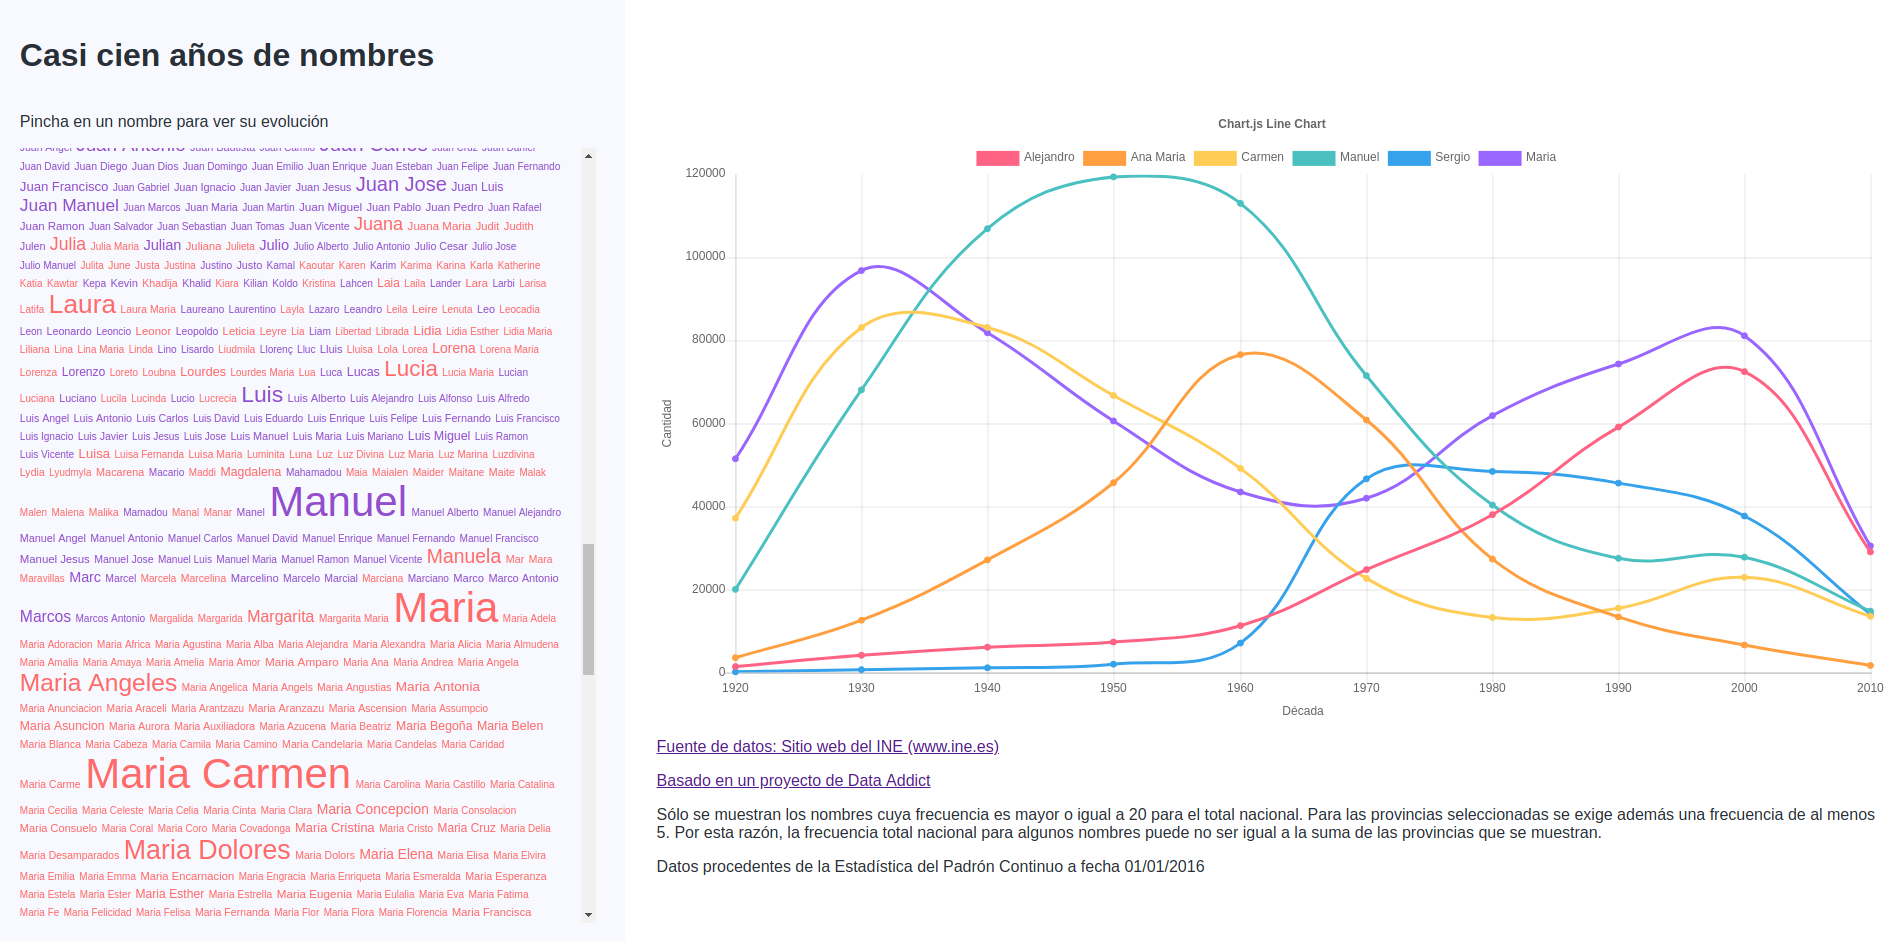
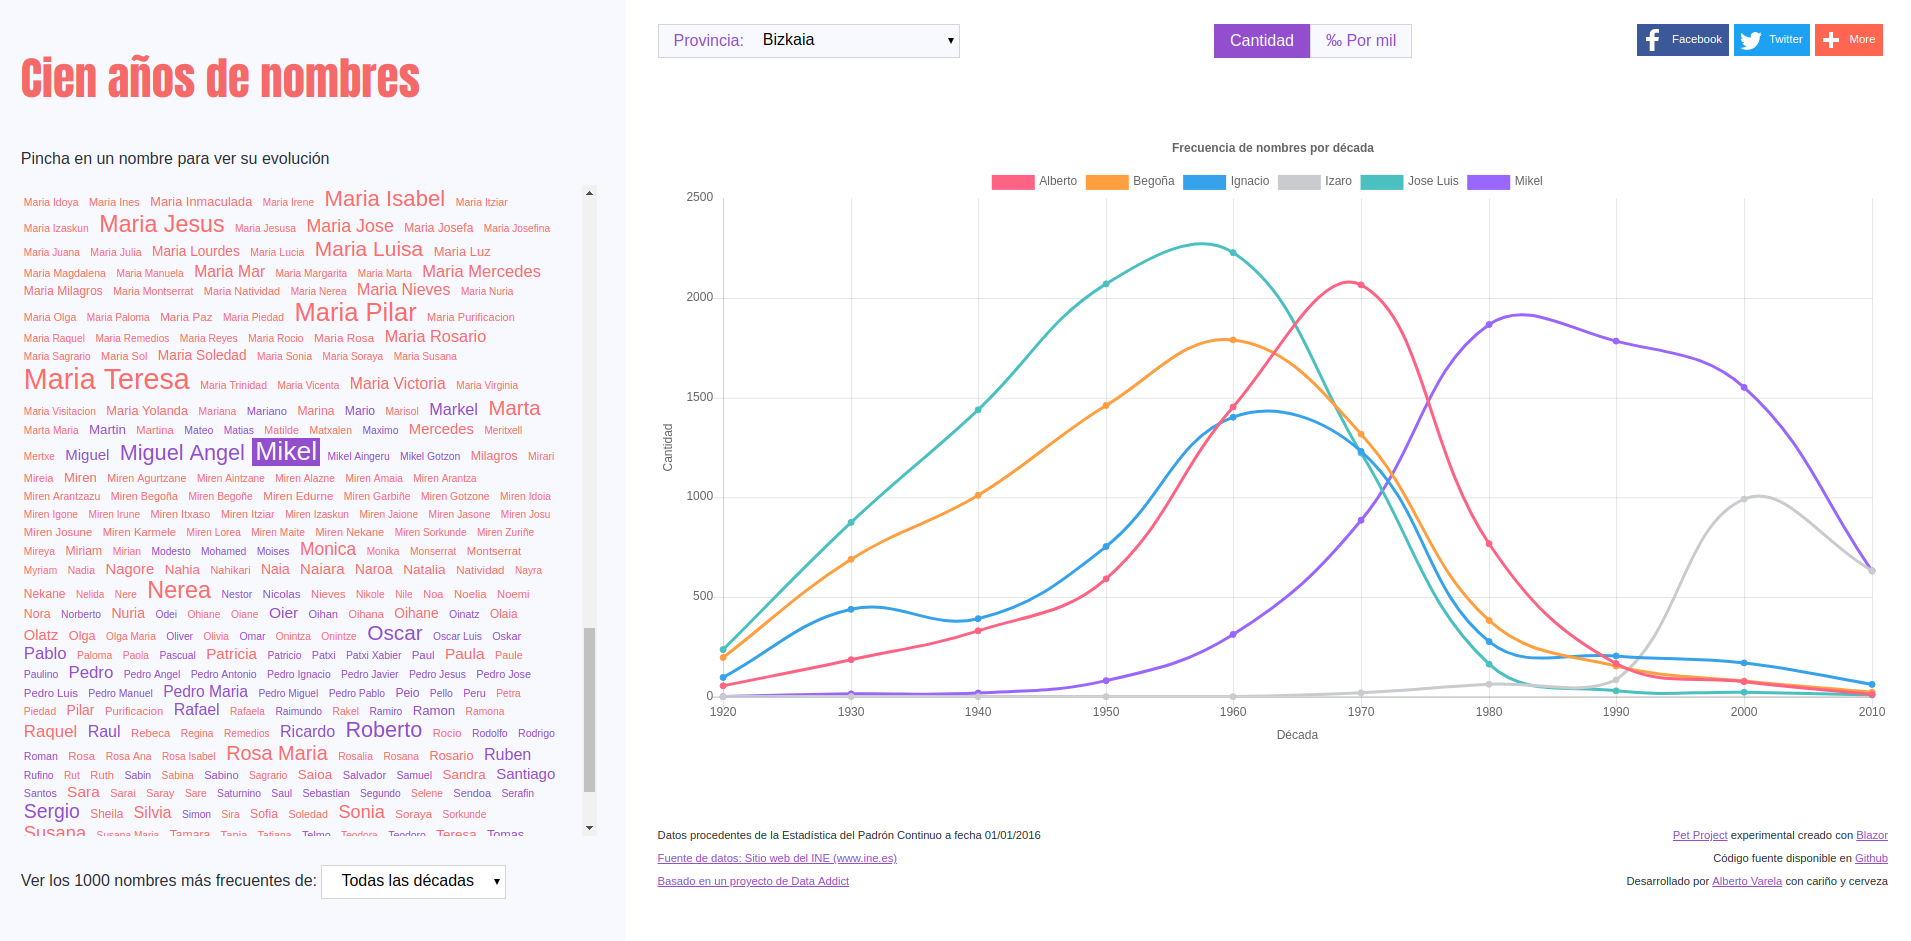
Changing UI a bit

diff --git a/src/Names.Web/wwwroot/css/site.css b/src/Names.Web/wwwroot/css/site.css
@@ -51,6 +51,10 @@ app {
     flex-direction: column;
 }
 
+.right {
+    text-align: right;
+}
+
 .chartselector {
     margin-left: 3vh;
     display: flex;
@@ -95,9 +99,14 @@ app {
     flex: 1;
 }
 
+.flex {
+    display: flex;
+}
+
 .header {
     padding: 3vh 0;
     display: flex;
+    justify-content: space-between;
 }
 
 .sidebar {
@@ -149,6 +158,8 @@ app {
 .footer {
     font-size: 0.7rem;
     margin: 3vh 0 6vh;
+    display: flex;
+    justify-content: space-between;
 }
 
 .preloader {

diff --git a/src/Names.Web/wwwroot/index.html b/src/Names.Web/wwwroot/index.html
@@ -1,5 +1,5 @@
 <!DOCTYPE html>
-<html>
+<html lang="es">
 <head>
     <meta charset="utf-8" />
     <meta name="viewport" content="width=device-width">
@@ -15,7 +15,6 @@
             }({
                 instrumentationKey:"8453cb2c-1833-4ea7-bc4d-e321e7bb6a40"
             });
-
         window.appInsights=appInsights,appInsights.queue&&0===appInsights.queue.length&&appInsights.trackPageView();
     </script>
 </head>

diff --git a/src/Names.Web/wwwroot/js/chart.js b/src/Names.Web/wwwroot/js/chart.js
@@ -59,6 +59,11 @@
         var ctx = document.getElementById('canvas').getContext('2d');
         nameChart = new Chart(ctx, config);
 
+        // Add this
+        var script = document.createElement('script');
+        script.src = '//s7.addthis.com/js/300/addthis_widget.js#pubid=ra-5afefe6e3de26255';
+        document.body.appendChild(script);
+
         return true;
     });
 
